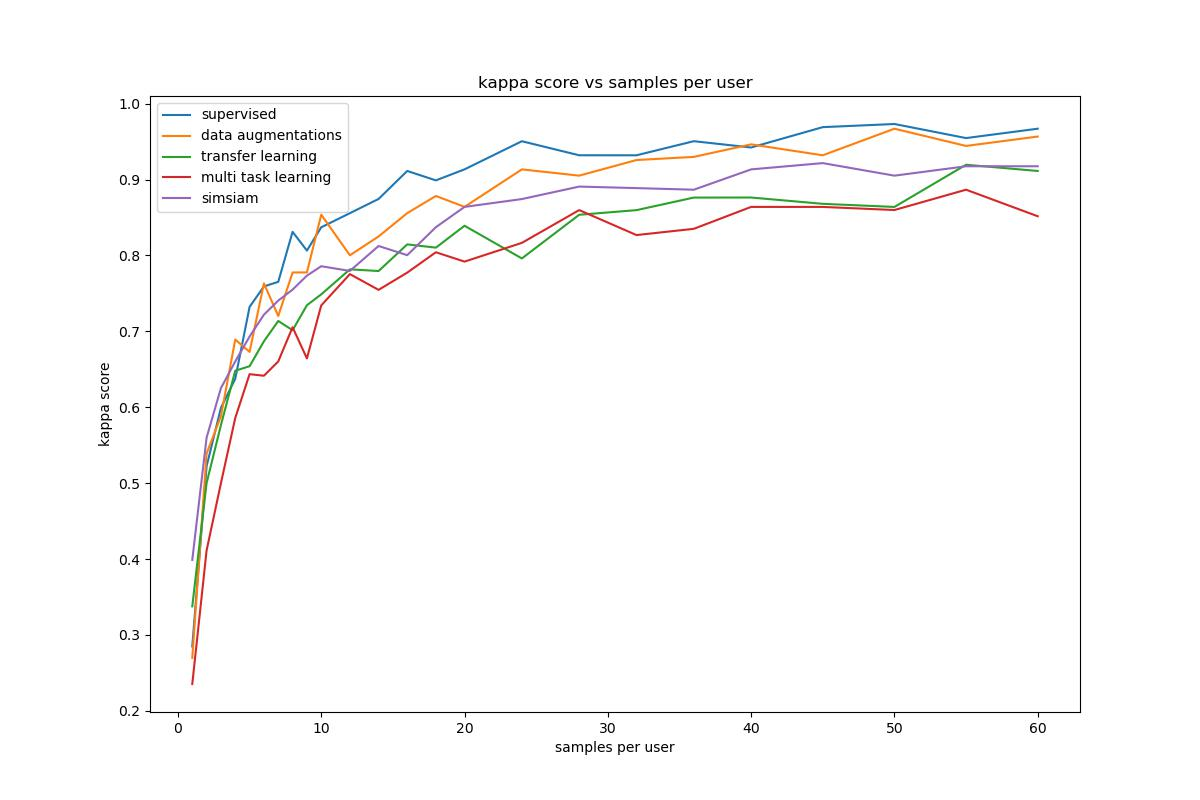
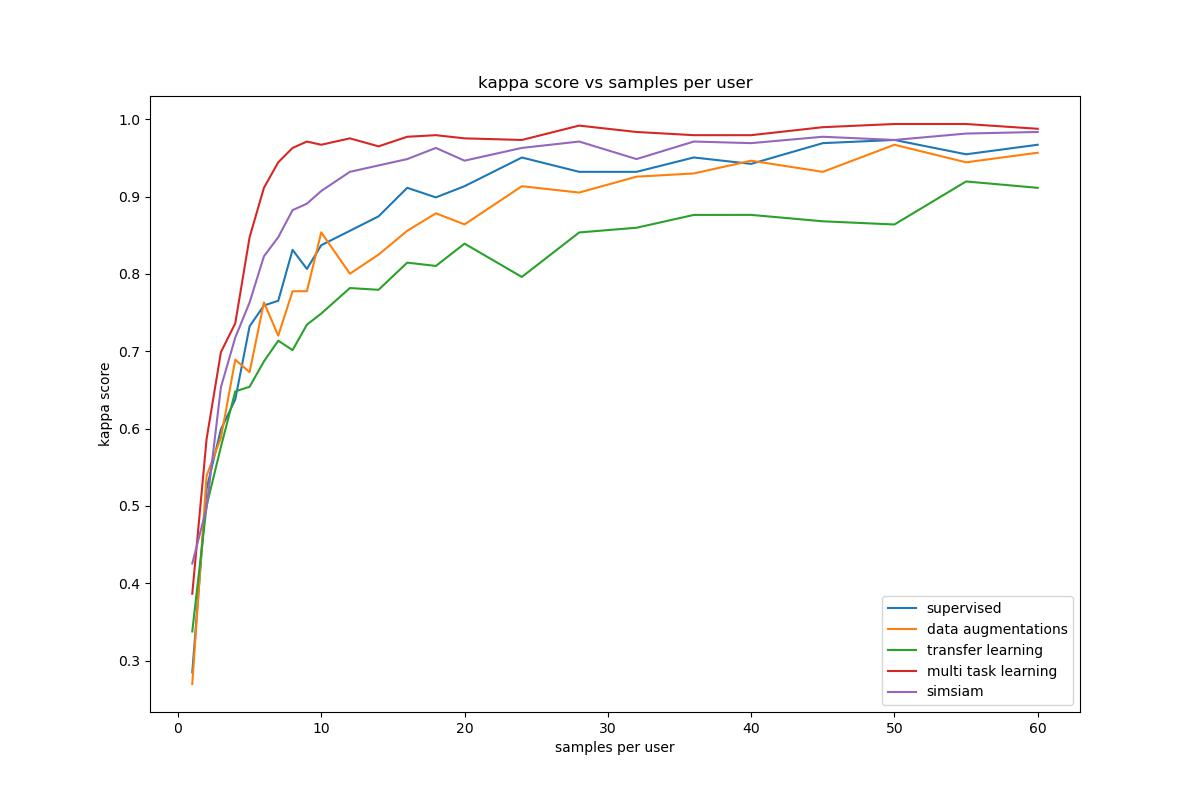
fine tuning added

diff --git a/experiments/MusicID/scen.3/simsiam/pre_trainers.py b/experiments/MusicID/scen.3/simsiam/pre_trainers.py
@@ -15,7 +15,7 @@ from simsiam import *
 from backbones import *
 from data_loader import *
 
-def pre_trainer(scen):
+def pre_trainer(scen, ft):
   frame_size   = 30
   BATCH_SIZE = 40
   origin = False
@@ -104,6 +104,12 @@ def pre_trainer(scen):
       contrastive.encoder.input, contrastive.encoder.output
   )
   
+  backbone.summary()
+  
+  backbone = tf.keras.Model(backbone.input, backbone.layers[-ft].output)
+  
+  backbone.summary()
+  
   if scen==3:
     x_train, y_train, sessions_train = data_load_origin(path, users=users_2, folders=folder_train, frame_size=30)
   elif scen==1:
@@ -114,7 +120,7 @@ def pre_trainer(scen):
   X_embedded = TSNE(n_components=2).fit_transform(enc_results)
   fig4 = plt.figure(figsize=(18,12))
   plt.scatter(X_embedded[:,0], X_embedded[:,1], c=y_train)
-  plt.savefig('graphs/latentspace_scen_'+str(scen)+'.png')
+  plt.savefig('graphs/latentspace_scen_'+str(scen)+'_ft_'+str(ft)+'.png')
   plt.close(fig4)
   
   return backbone

diff --git a/experiments/MusicID/scen.3/simsiam/trainers.py b/experiments/MusicID/scen.3/simsiam/trainers.py
@@ -12,7 +12,11 @@ from sklearn.metrics import roc_curve
 from backbones import *
 from data_loader import *
 
-def trainer(samples_per_user, fet_extrct, scen):
+def trainer(samples_per_user, fet_extrct, scen, fet):
+  
+  for i in range(1,fet+1):
+    fet_extrct.layers[-i].trainable == False
+  
   frame_size   = 30
   path = "/home/oshanjayawardanav100/biometrics-self-supervised/musicid_dataset/"
   
@@ -55,7 +59,7 @@ def trainer(samples_per_user, fet_extrct, scen):
   
   #fet_extrct=model.layers[len(transformations)]
 
-  fet_extrct.trainable=False
+  #fet_extrct.trainable=False
   inputs = Input(shape=(frame_size, x_train.shape[-1]))
   x = fet_extrct(inputs, training=False)
   x = Dense(256, activation='relu')(x)

diff --git a/experiments/MusicID/scen.3/multi_task/trainers.py b/experiments/MusicID/scen.3/multi_task/trainers.py
@@ -12,7 +12,11 @@ from sklearn.metrics import roc_curve
 from backbones import *
 from data_loader import *
 
-def trainer(samples_per_user, fet_extrct, scen):
+def trainer(samples_per_user, fet_extrct, scen, fet):
+
+  for i in range(1,fet+1):
+    fet_extrct.layers[-i].trainable == False
+  
   frame_size   = 30
   path = "/home/oshanjayawardanav100/biometrics-self-supervised/musicid_dataset/"
   
@@ -55,7 +59,7 @@ def trainer(samples_per_user, fet_extrct, scen):
   
   #fet_extrct=model.layers[len(transformations)]
 
-  fet_extrct.trainable=False
+  #fet_extrct.trainable=False
   inputs = Input(shape=(frame_size, x_train.shape[-1]))
   x = fet_extrct(inputs, training=False)
   x = Dense(256, activation='relu')(x)

diff --git a/experiments/MusicID/scen.3/simsiam/plot_results.py b/experiments/MusicID/scen.3/simsiam/plot_results.py
@@ -5,7 +5,7 @@ import matplotlib.pyplot as plt
 
 scen = 3
 
-fet_extrct = pre_trainer(scen=scen)
+fet_extrct = pre_trainer(scen=scen, ft=6)
 
 variable_name="samples per user"
 model_name="musicid_scen"+str(scen)+"_simsiam"
@@ -17,7 +17,7 @@ for el in variable:
   acc_temp=[]
   kappa_temp=[]
   for itr in range(10):
-    test_acc, kappa_score = trainer(el, fet_extrct, scen)
+    test_acc, kappa_score = trainer(el, fet_extrct, scen, fet=9)
     acc_temp.append(test_acc)
     kappa_temp.append(kappa_score)
   acc.append(acc_temp)

diff --git a/experiments/MusicID/scen.3/multi_task/plot_results.py b/experiments/MusicID/scen.3/multi_task/plot_results.py
@@ -3,7 +3,7 @@ from pre_trainers import *
 import numpy as np
 import matplotlib.pyplot as plt
 
-scen = 1
+scen = 3
 
 fet_extrct = pre_trainer(scen=scen)
 
@@ -17,7 +17,7 @@ for el in variable:
   acc_temp=[]
   kappa_temp=[]
   for itr in range(10):
-    test_acc, kappa_score = trainer(el, fet_extrct, scen)
+    test_acc, kappa_score = trainer(el, fet_extrct, scen, fet=9)
     acc_temp.append(test_acc)
     kappa_temp.append(kappa_score)
   acc.append(acc_temp)

diff --git a/experiments/MusicID/scen.3/simsiam/simsiam.py b/experiments/MusicID/scen.3/simsiam/simsiam.py
@@ -21,8 +21,7 @@ def get_encoder(frame_size,ftr,mlp_s,origin):
     x = ReLU()(x)
     x = MaxPooling1D(pool_size=4, strides=4)(x)
     x = Dropout(rate=0.1)(x)
-    x = Flatten()(x)
-    #x = resnetblock_final(x, CR=32*con, KS=ks)
+    x = resnetblock_final(x, CR=32*con, KS=ks)
     
     outputs = proTian(x,mlp_s=mlp_s)
     

diff --git a/experiments/MusicID/scen.3/simsiam/rep.py b/experiments/MusicID/scen.3/simsiam/rep.py
@@ -1,0 +1,6 @@
+from pre_trainers import *
+
+scen = 1
+ft = 6
+
+fet_extrct = pre_trainer(scen=scen, ft=ft)
